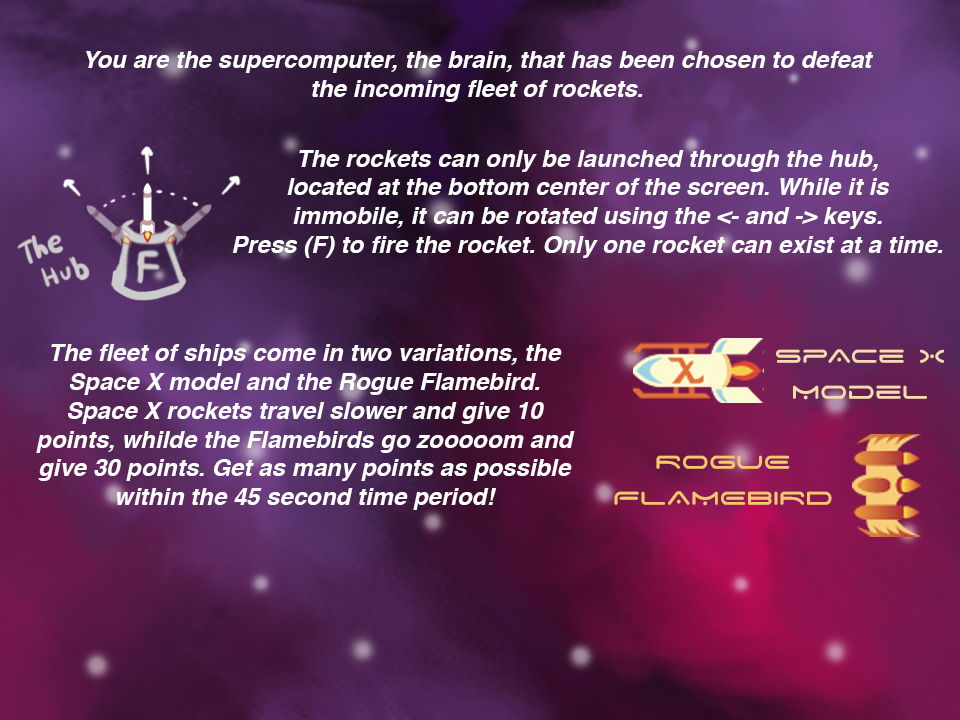
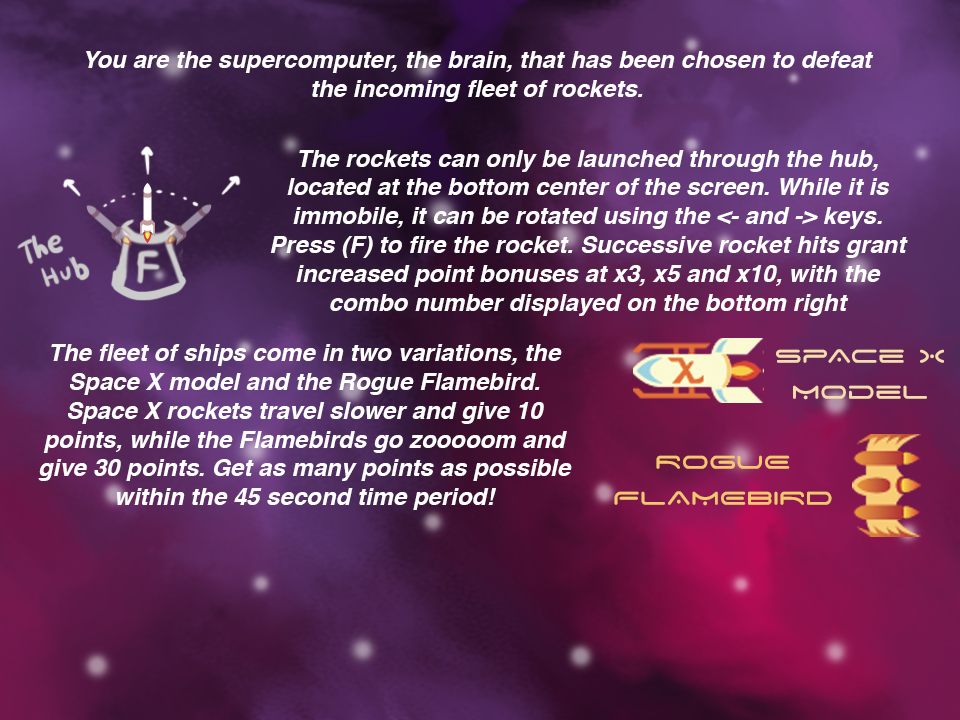
Source code comments

Changed region(s): [[0.25, 0.3056, 1.0, 0.4583], [0.0312, 0.5806, 0.5938, 0.6417]]

diff --git a/src/main.js b/src/main.js
@@ -16,3 +16,24 @@ let starSpeed = 1;
 
 //reserve keyboard bindings
 let keyF, keyR, keyLEFT, keyRIGHT, keySPACE;
+
+/*
+Brian Zhang
+Galaxy Brain (Rocket Patrol Mod)
+4/17/2021
+The project took me around 14 hours to complete (6 hours artwork, 5 hours coding, 3 hours debugging and testing)
+
+Point Breakdown:
+-Create a new spaceship type (w/ new artwork) that's smaller, moves faster, and is worth more points (20)
+-Created a small orange space ship named the Rogue Flamebird which is the new, smaller, and faster spaceship that is worth 30 points compared to 10 (20p)
+-Rocket, spaceships, and explosion all have new graphics. (20p)
+-Create and implement a new weapon (w/ new behavior and graphics) (20)
+-The new rocket weapon is immobile but instead it can be aimed and has new graphics (20p)
+-There are 4 new explosion wav files that are randomized every time a spaceship is hit (20p)
+-The UI borders now have portals, asteroids, and a launch hub instead of the white border (20p)
+-The new title and instruction screen has new artwork, font, and a different layout (10p)
+-There is parallax scrolling between the stars and the background. The stars move at a faster pace than the nebula. (parallax scrolling 10p + tile sprite 5p)
+-Added the copyright free song “Creo - Nautilus” that plays when the game is entered (5p)
+Other random features include:
+A combo feature that awards the player for hitting spaceships consecutively without missing any shots, prioritizing aiming over spamming shots.
+*/

diff --git a/src/scenes/Play.js b/src/scenes/Play.js
@@ -32,12 +32,12 @@ class Play extends Phaser.Scene{
     create() {
         //whichever image is created first gets pushed to the back of the web browser
         this.game.x +=100;
-        //place starfield
+        //place starfield, a new starfield drawn by me
         this.starfield = this.add.tileSprite(0, 0, game.config.width, game.config.height, 'starbackground').setOrigin(0, 0);
         this.stars = this.add.tileSprite(0, 0, game.config.width, game.config.height, 'stars').setOrigin(0, 0);
         this.stars.alpha = 0.5;
 
-        //add spaceship(x3)
+        //add spaceship(x4)
         this.ship01 = new Spaceship(this, game.config.width + borderUISize*6, borderUISize*4, 
             'spaceships', 0, 10, 1).setOrigin(0,0);
         this.ship02 = new Spaceship(this, game.config.width + borderUISize*3, borderUISize*5
@@ -46,6 +46,7 @@ class Play extends Phaser.Scene{
             +borderPadding*2, 'spaceships', 1, 10, 1).setOrigin(0,0);
         this.ship04 = new Spaceship(this, game.config.width, borderPadding*4 + borderUISize*6, 
             'fast_spaceship', 0, 30, 1).setOrigin(0,0);
+        //the spaceships will all spawn at various set points, but will respawn in random points
 
         //add Rocket (p1)
         this.p1Rocket = new Rocket(this, game.config.width/2, game.config.height - borderUISize
